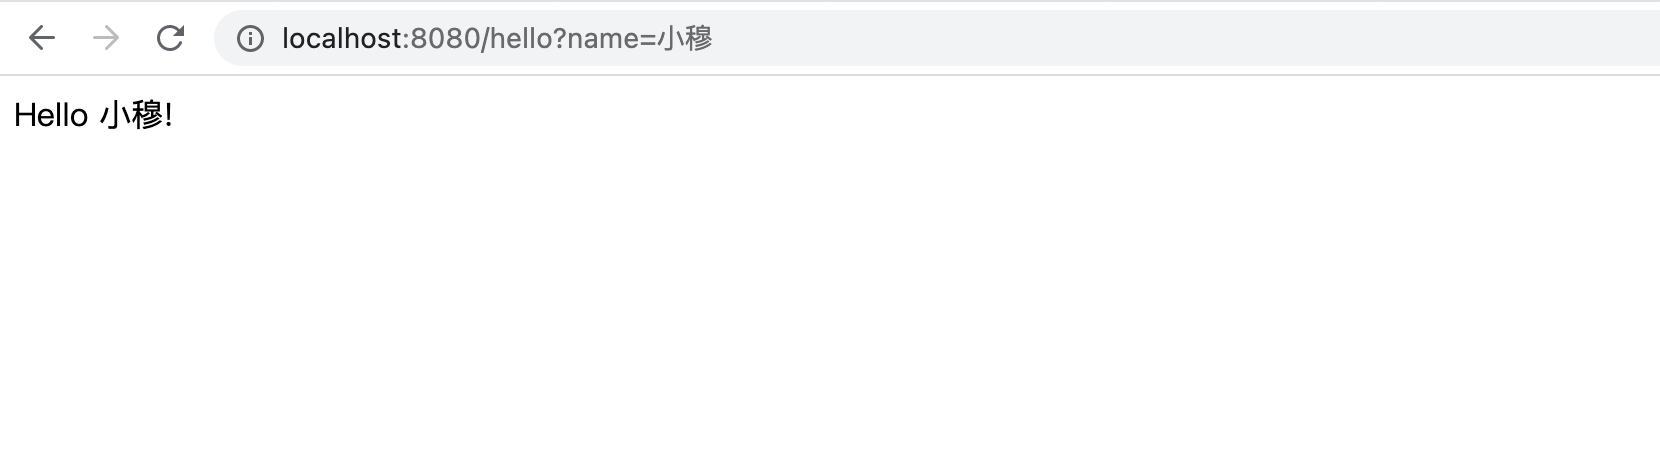
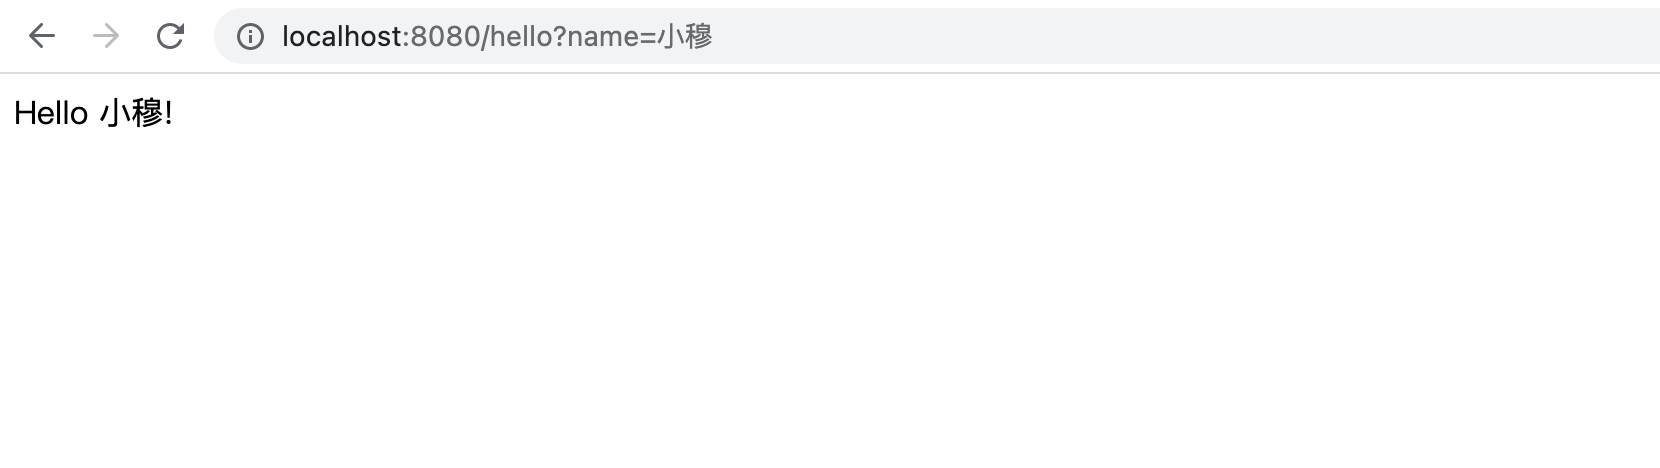
修改【从零搭建 Spring MVC 项目 —— HelloWorld】 - 修改 图片显示

diff --git a/docs/spring-mvc/spring_mvc_helloworld.md b/docs/spring-mvc/spring_mvc_helloworld.md
@@ -51,7 +51,7 @@ public class Application {
 
 运行启动类，在浏览器中输入：`http://localhost:8080/hello?name=小穆` ，即可看到如下效果：
 
-<img src="../images/spring_mvc_helloworld_0.png" width="100%">
+<img src="../images/spring_mvc_helloworld_0.png" width="100%" style="border: solid 1px #dce6f0; border-radius: 0.3rem;">
 
 [返回首页](https://susamlu.github.io/paitse)
 [获取源码](https://github.com/susamlu/spring-mvc)
